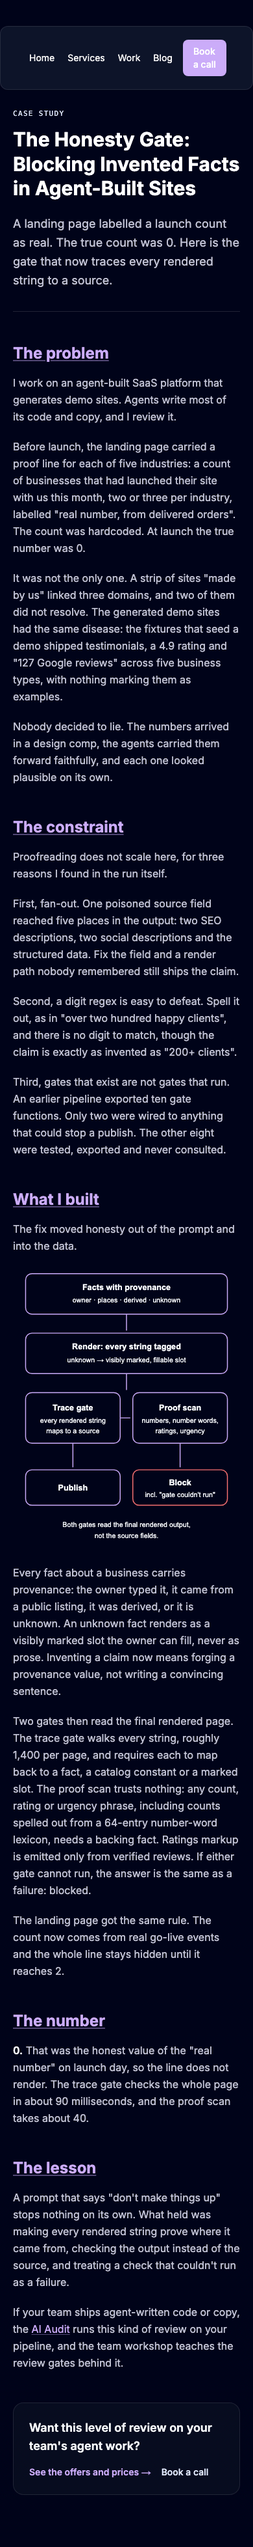
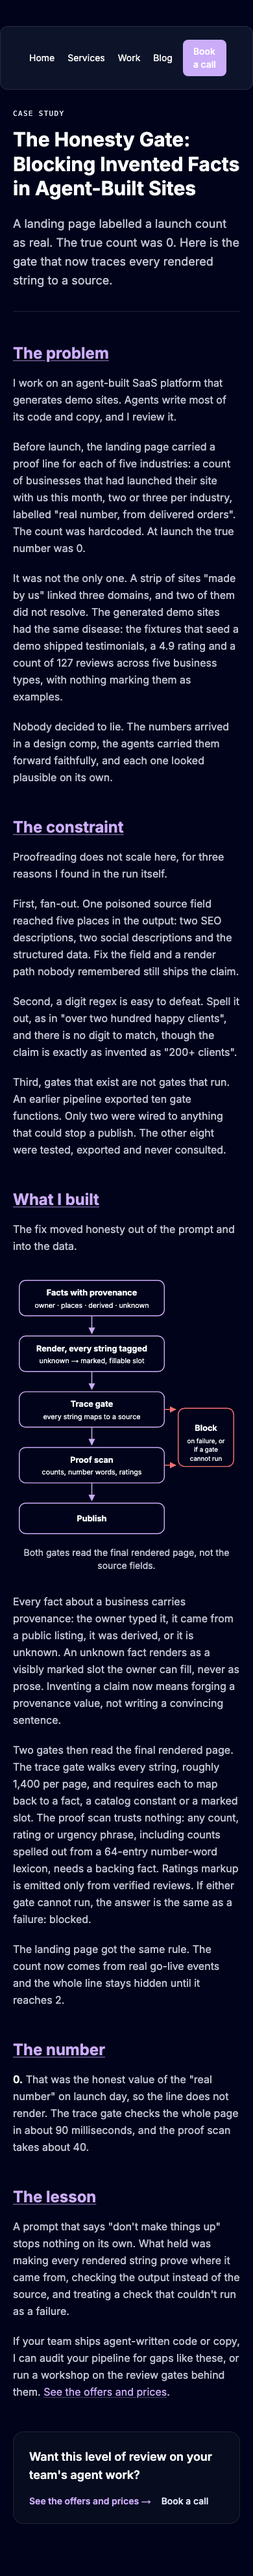
🐛 fix(#31): apply review on the published case study
Diagram shows both gates in series with block arrows, the CTA names no
offer the site lacks yet, the h1 follows the theme, and the TODO gate
covers frontmatter and spelling variants for case studies only.

Changed region(s): [[0.0308, 0.0312, 0.9538, 0.9665], [0.8923, 0.4988, 0.9231, 0.5924]]

diff --git a/__tests__/blog.test.ts b/__tests__/blog.test.ts
@@ -81,6 +81,18 @@ describe("case-study honesty guard", () => {
     await expect(getPosts(dir)).rejects.toThrow(/TODO\(adi\)/);
   });
 
+  it("also catches the marker in frontmatter and in other spellings", async () => {
+    const fs = await import("fs");
+    const os = await import("os");
+    const path = await import("path");
+    const dir = fs.mkdtempSync(path.join(os.tmpdir(), "work-"));
+    fs.writeFileSync(
+      path.join(dir, "draft.mdx"),
+      '---\ntitle: "t"\ndescription: "TODO (Adi): real number"\ndate: "2026-10-10"\ntags: []\npublished: true\n---\n\nbody\n',
+    );
+    await expect(getPosts(dir)).rejects.toThrow(/TODO\(adi\)/);
+  });
+
   it("lets the finished honesty-gate case study through the gate", async () => {
     await expect(getPosts(WORK_DIR)).resolves.toBeDefined();
   });

diff --git a/lib/blog.ts b/lib/blog.ts
@@ -62,8 +62,13 @@ export async function getPosts(dir = BLOG_DIR): Promise<BlogPost[]> {
     })
     .filter((post) => {
       if (!post.frontmatter.published) return false;
-      // Honesty gate: fail the build rather than publish unfinished copy.
-      if (post.content.includes("TODO(adi)")) {
+      // Honesty gate (case studies only, so a blog post may quote the marker):
+      // fail the build rather than publish unfinished copy.
+      const { title, description } = post.frontmatter;
+      if (
+        dir !== BLOG_DIR &&
+        /TODO\s*\(adi\)/i.test(`${title}\n${description}\n${post.content}`)
+      ) {
         throw new Error(`Published ${post.slug} still contains TODO(adi)`);
       }
       return true;

diff --git a/app/work/[slug]/page.tsx b/app/work/[slug]/page.tsx
@@ -100,7 +100,7 @@ export default async function CaseStudyPage({ params }: CaseStudyPageProps) {
             >
               Case study
             </Link>
-            <h1 className="text-3xl sm:text-4xl md:text-5xl font-bold text-white leading-tight mt-3 mb-5">
+            <h1 className="text-3xl sm:text-4xl md:text-5xl font-bold leading-tight mt-3 mb-5">
               {study.frontmatter.title}
             </h1>
             <p className="text-white-200 text-lg leading-relaxed">
